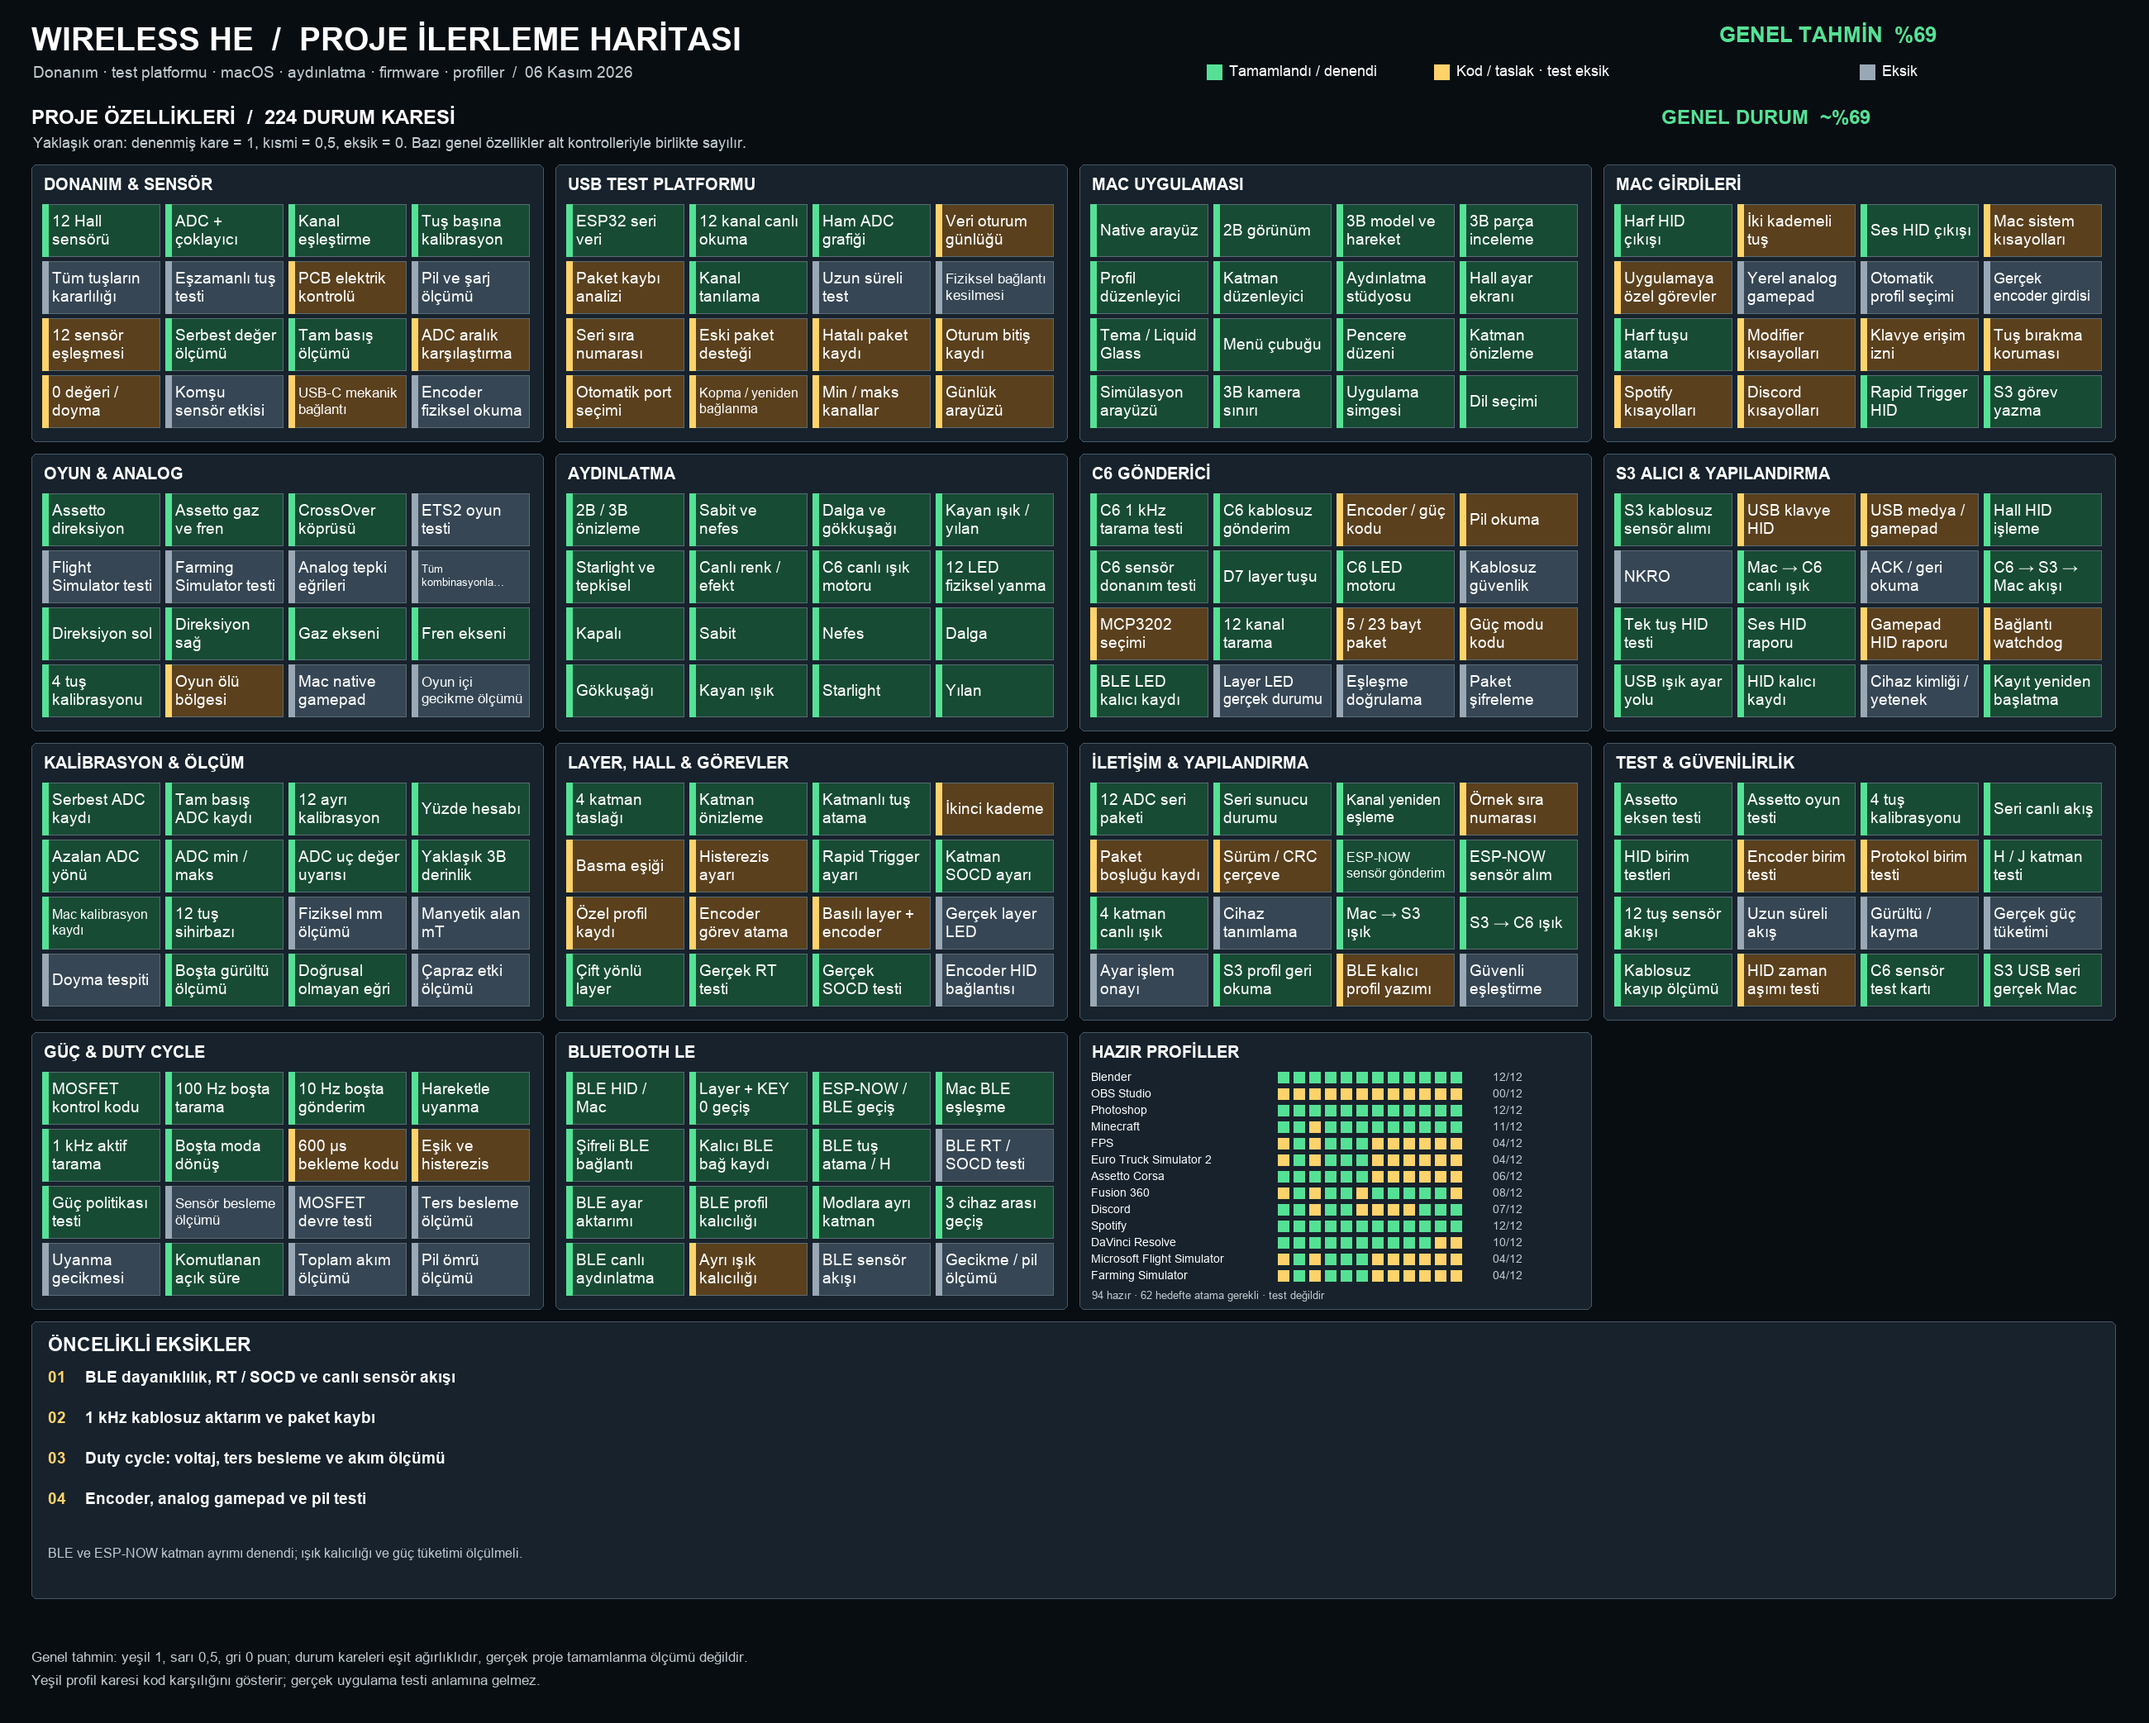
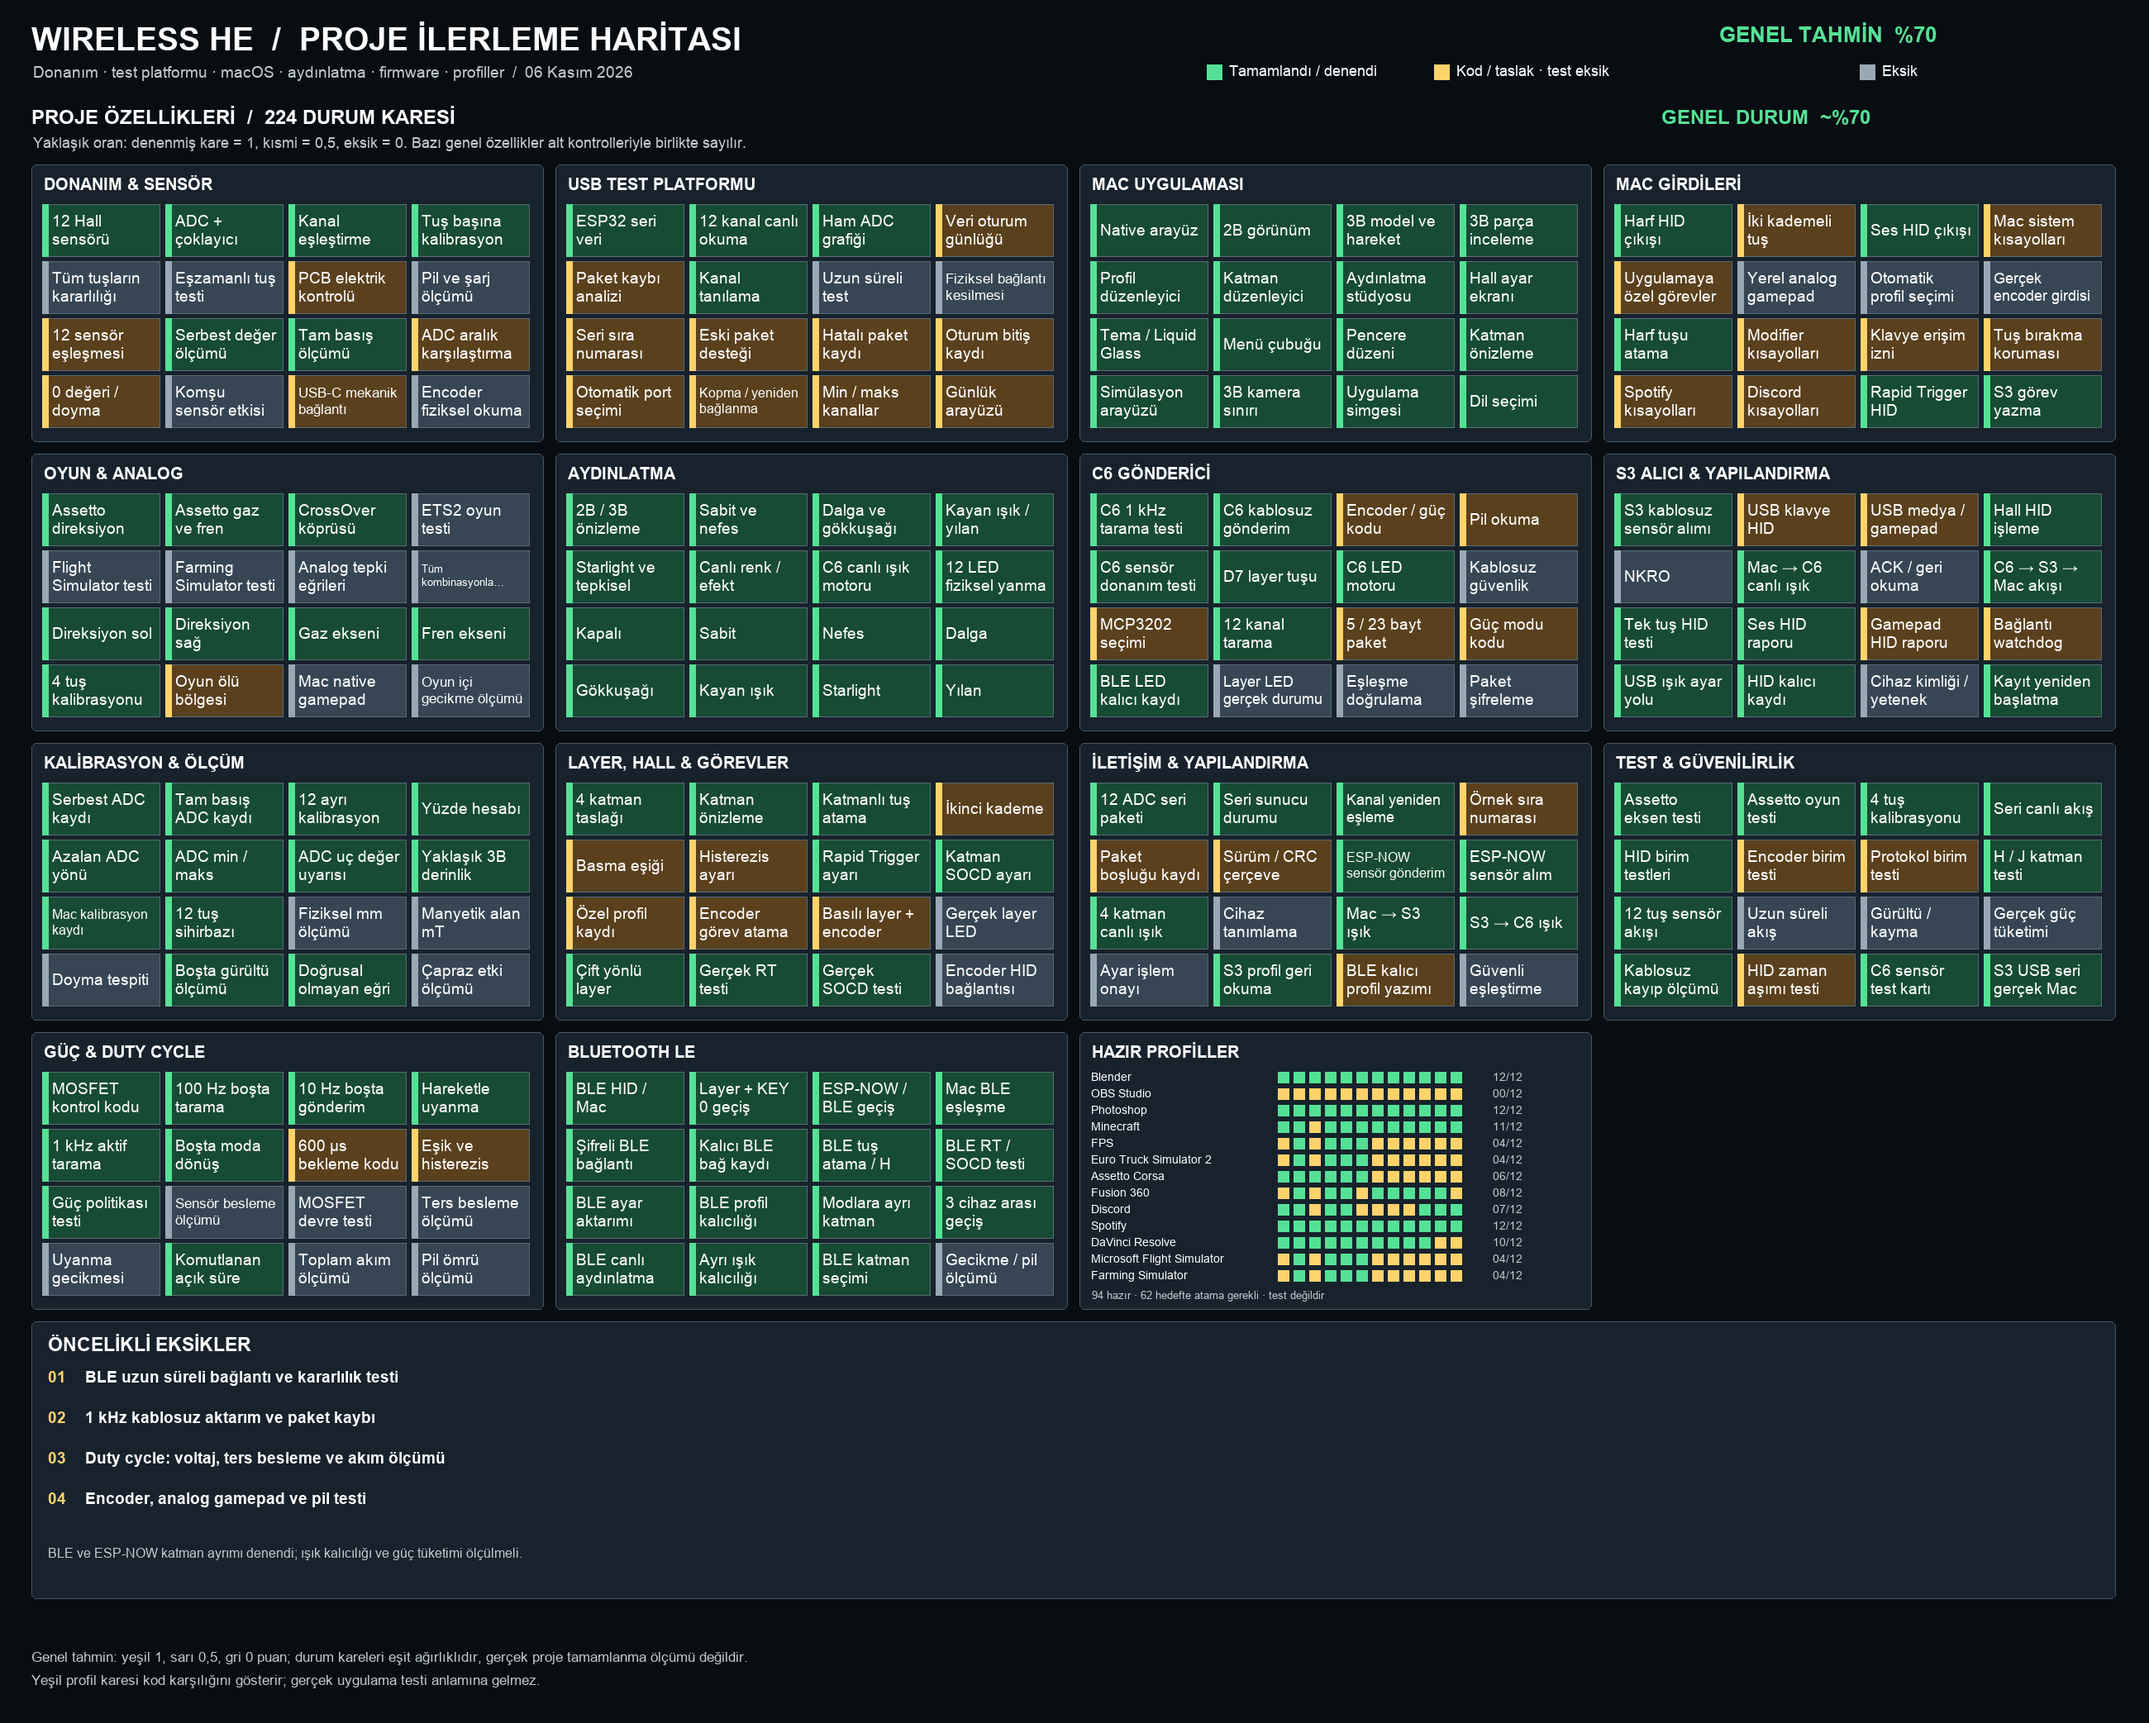
Record BLE tests and sensor scope

Changed region(s): [[0.3115, 0.717, 0.4362, 0.7794], [0.0623, 0.7794, 0.1869, 0.8106], [0.4362, 0.6547, 0.4985, 0.6859]]

diff --git a/tools/progress_english.py b/tools/progress_english.py
@@ -19,7 +19,7 @@ translations=[
 ('COMMUNICATION & CONFIG','12 ADC serial frame|Serial server status|Channel remapping|Sample sequence number|Sequence gap logging|Version / CRC frame|ESP-NOW sensor TX|ESP-NOW sensor RX|Four-layer live lighting|Device identification|Mac to S3 lighting|S3 to C6 lighting|Config transaction confirmation|Device readback|BLE persistent profile write|Secure pairing'),
 ('TEST & RELIABILITY','Assetto axis test|Assetto gameplay test|Four-key calibration|Live serial stream|HID unit tests|Encoder unit tests|Protocol unit tests|Profile mapping|12-key sensor stream|Long-duration stream|Noise / drift|Power consumption|Wireless loss measurement|HID timeout unit test|C6 sensor test board|S3 USB serial on Mac'),
 ('POWER & DUTY CYCLE','MOSFET gate control|100 Hz idle scan|10 Hz idle transmission|Wake on movement|1 kHz active target|Idle after 2 s|Startup delay|Threshold / hysteresis|Power policy unit tests|Sensor supply measurement|MOSFET circuit test|Backfeed measurement|Wake latency|Noise / wake threshold|Total current measurement|Battery life measurement'),
-('BLUETOOTH LE','BLE HID / Mac|Layer + KEY 0 switch|ESP-NOW / BLE switching|Mac BLE pairing|Encrypted BLE link|Bond persistence|BLE key assignment / H|BLE RT / SOCD test|BLE configuration transfer|BLE profile persistence|Separate transport layers|Three-host switching|BLE live lighting|Separate lighting persistence|BLE sensor stream|Latency / battery measurement'),
+('BLUETOOTH LE','BLE HID / Mac|Layer + KEY 0 switch|ESP-NOW / BLE switching|Mac BLE pairing|Encrypted BLE link|Bond persistence|BLE key assignment / H|BLE RT / SOCD test|BLE configuration transfer|BLE profile persistence|Separate transport layers|Three-host switching|BLE live lighting|Separate lighting persistence|BLE layer selection|Latency / battery measurement'),
 ]
 translations = [(name, labels.replace('Keyboard output|', 'Letter HID output|').replace('Media / audio|', 'Volume HID output|').replace('Write actions to device', 'Write S3 actions').replace('Consumer HID report', 'Volume HID report').replace('Versioned NVS storage', 'Persistent HID settings').replace('Settings readback test', 'Settings restart test').replace('Single key assignment', 'Layered key assignment').replace('Device readback', 'S3 profile readback').replace('Startup delay', '600 µs startup delay').replace('Noise / wake threshold', 'Commanded gate on-time').replace('Profile mapping', 'H / J layer test')) for name, labels in translations]
 groups=[]
@@ -63,7 +63,7 @@ for i,(key,label) in enumerate([('tested','Complete / tested'),('partial','Imple
  yy=y+60+i*60;d.rectangle((x+20,yy,x+41,yy+21),fill=colors[key]);title(d,(x+58,yy),f'{label}: {states.count(key)}',18)
 title(d,(x+20,y+277),'The score is a rough checklist index, not a product-completion metric.',15,'#becbd0')
 x,y=38,1599;d.rounded_rectangle((x,y,x+2521,y+335),6,fill='#17222c',outline='#455966');title(d,(x+20,y+15),'CURRENT PRIORITIES',23,b=True)
-for i,t in enumerate(['BLE stability, RT / SOCD and sensor stream','Wireless throughput, reliability and secure pairing','MOSFET rail, backfeed and current measurements','Physical encoder, gamepad and battery tests']):title(d,(x+25,y+62+i*47),f'{i+1:02}   {t}',20)
+for i,t in enumerate(['BLE long-duration connection stability','Wireless throughput, reliability and secure pairing','MOSFET rail, backfeed and current measurements','Physical encoder, gamepad and battery tests']):title(d,(x+25,y+62+i*47),f'{i+1:02}   {t}',20)
 title(d,(x+20,y+270),'Separate BLE / ESP-NOW key assignments tested; power savings unmeasured.',16,'#becbd0')
 title(d,(38,1990),'Status reflects evidence from the test platform and code review. It does not guarantee product readiness.',18,'#becbd0')
 im.save(out/'project-progress-en.png',optimize=True)

diff --git a/tools/progress.py b/tools/progress.py
@@ -108,11 +108,11 @@ groups['BLUETOOTH LE'] = [
  ('BLE HID / Mac','tested'), ('Layer + KEY 0 geçiş','tested'),
  ('ESP-NOW / BLE geçiş','tested'), ('Mac BLE eşleşme','tested'),
  ('Şifreli BLE bağlantı','tested'), ('Kalıcı BLE bağ kaydı','tested'),
- ('BLE tuş atama / H','tested'), ('BLE RT / SOCD testi','missing'),
+ ('BLE tuş atama / H','tested'), ('BLE RT / SOCD testi','tested'),
  ('BLE ayar aktarımı','tested'), ('BLE profil kalıcılığı','tested'),
  ('Modlara ayrı katman','tested'), ('3 cihaz arası geçiş','tested'),
- ('BLE canlı aydınlatma','tested'), ('Ayrı ışık kalıcılığı','partial'),
- ('BLE sensör akışı','missing'), ('Gecikme / pil ölçümü','missing'),
+ ('BLE canlı aydınlatma','tested'), ('Ayrı ışık kalıcılığı','tested'),
+ ('BLE katman seçimi','tested'), ('Gecikme / pil ölçümü','missing'),
 ]
 
 
@@ -205,7 +205,7 @@ t(x+15,y+311,f"{supported} hazır · {setup} hedefte atama gerekli · test deği
 x=38;y=1599
 box(x,y,2521,335)
 t(x+20,y+15,"ÖNCELİKLİ EKSİKLER",23,white,True)
-notes=[("01","BLE dayanıklılık, RT / SOCD ve canlı sensör akışı"),("02","1 kHz kablosuz aktarım ve paket kaybı"),("03","Duty cycle: voltaj, ters besleme ve akım ölçümü"),("04","Encoder, analog gamepad ve pil testi")]
+notes=[("01","BLE uzun süreli bağlantı ve kararlılık testi"),("02","1 kHz kablosuz aktarım ve paket kaybı"),("03","Duty cycle: voltaj, ters besleme ve akım ölçümü"),("04","Encoder, analog gamepad ve pil testi")]
 for i,(n,label) in enumerate(notes):
     yy=y+56+i*49
     t(x+20,yy,n,19,yellow,True);t(x+65,yy,label,19,white,True)

diff --git a/Docs/DEVIR.md b/Docs/DEVIR.md
@@ -1,3 +1,5 @@
+> **BLE kapsamı — 6 Kasım:** Kullanıcının kararıyla canlı sensör akışı ve grafik yalnız ESP-NOW / S3 yolunda kalacak; BLE sensör akışı ürün hedefi değil. Kullanıcı BLE modunda Rapid Trigger ve SOCD davranışlarını ve iki modun ayrı sabit ışıklarını doğruladı. BLE gecikme ve pil tüketimi henüz ölçülmedi.
+
 > **6 Kasım — ayrı bağlantı profilleri:** C6 0.1.6 BLE HID/ışık kayıtlarını `ble_hid` / `ble_lights`, ESP-NOW kopyalarını `hid_v2` / `lights` anahtarlarında tutar. İlk açılışta eski ortak veriden eksik BLE kopyası oluşturulur. Studio 0.1.4 dört layer taslağını bağlantıya göre ayrı saklar; kalibrasyon ve Hall ayarları ortaktır. Kullanıcı modlar arasında farklı tuş atamalarının korunduğunu donanımda doğruladı. Önceki sürümlerde zaten üzerine yazılmış profil otomatik kurtarılamaz. Eski cihaz kayıtları ve şifreli eşleşmeler silinmez.
 
 > **Güncelleme 6 Kasım 2026:** Aşağıdaki eski durum notları tarihsel olabilir. C6 0.1.5 / Studio 0.1.2 ile şifreli BLE ayar servisi, canlı katman ve aydınlatma ayarı, tek katman HID profilinin C6 NVS belleğine doğrulanarak yazılması eklendi. Mac üzerinde iki layer aydınlatması ve H atamasının C6 yeniden başladıktan sonra yazması kullanıcı tarafından doğrulandı. Studio kapalıyken C6 yeniden başlatıldığında sabit ışık renginin korunduğu kullanıcı tarafından doğrulandı. BLE canlı sensör telemetrisi yok. S3 ve C6 BLE HID profilleri ayrı; 0.1.6 ile ESP-NOW profili BLE kaydının üzerine yazılmaz. Üç yuvanın adları yalnızca Mac'te düzenlenen takma adlardır, eşleşmiş cihazın gerçek adı otomatik okunmaz. Diğer cihazlar ve kapsamlı yeniden bağlantı testleri bekliyor.
